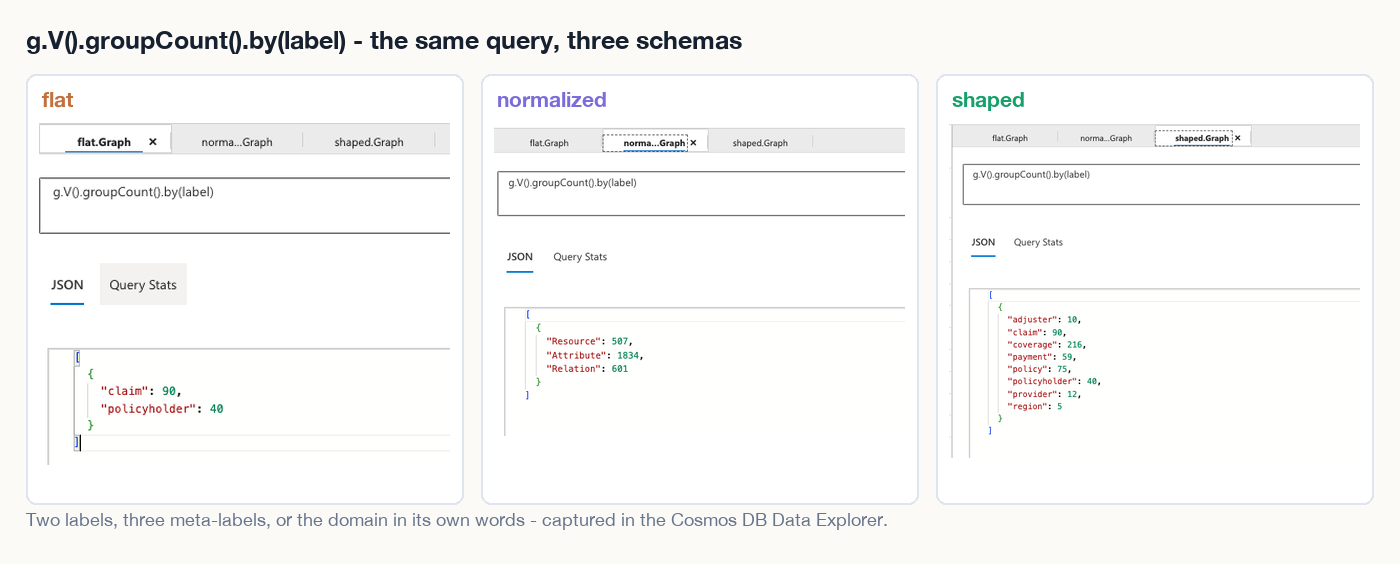
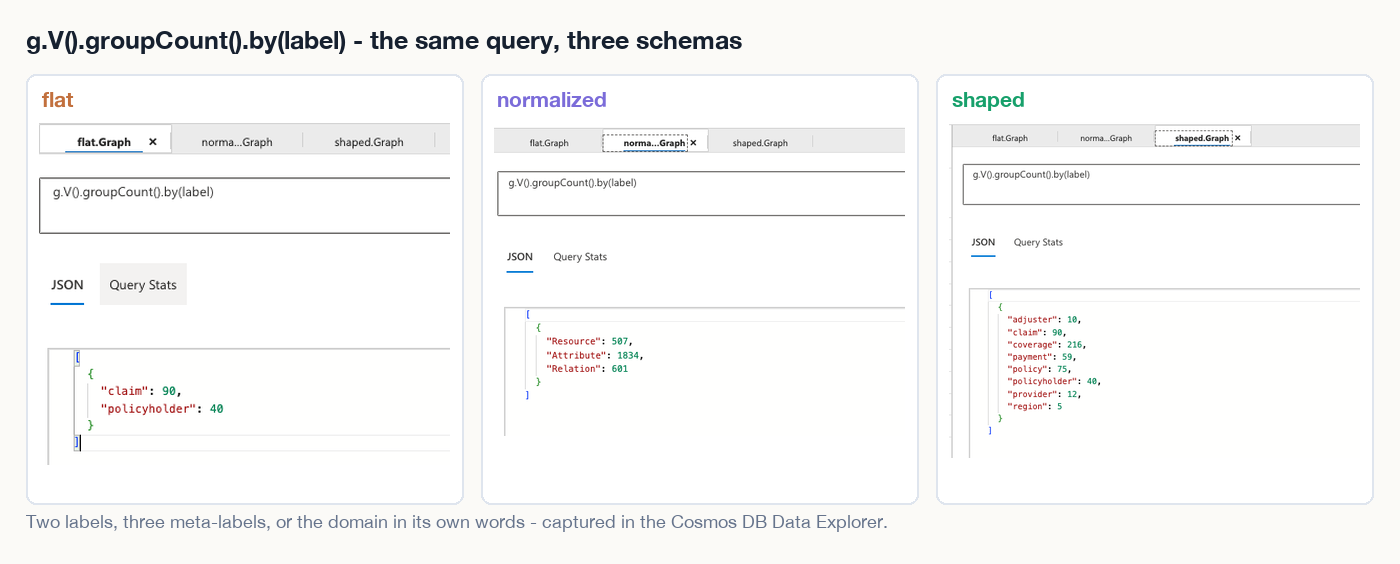
Add S2 neighbourhood and S3 deployment figures
Compose the remaining two portal figures from the raw captures:

- S2: claim C-31020 and its neighbours in each of the three graphs, with
  the Data Explorer properties panel alongside. Flat reaches one vertex,
  normalized eight, shaped three - each count matches the committed
  ontology files exactly.
- S3: the two Foundry model deployments, whose names and versions are the
  ones declared in code/infra.bicep.

The crops are derived from the captures rather than hardcoded: the portal
draws its pane boundaries as full-height rules, so the composer finds them
and cuts there. That also keeps the query bar and the query-history
dropdown out of the S2 rows without knowing where either one sits.

Notes are now wrapped against the measured font width instead of assumed
to fit on one line.

Changed region(s): [[0.0307, 0.9043, 0.645, 0.9344]]

diff --git a/figures/compose_screenshots.py b/figures/compose_screenshots.py
@@ -10,6 +10,7 @@ Output: figures/upload/screenshot-*.png
 
 from pathlib import Path
 
+import numpy as np
 from PIL import Image, ImageDraw, ImageFont
 
 HERE = Path(__file__).resolve().parent
@@ -27,6 +28,26 @@ def font(size, bold=False):
         except OSError:
             continue
     return ImageFont.load_default(size)
+
+
+def wrap(note, width, size=18):
+    """Break a note into lines that fit `width`, measured in the real font."""
+    if not note:
+        return []
+    f, lines, line = font(size), [], ""
+    for word in note.split():
+        trial = f"{line} {word}".strip()
+        if f.getlength(trial) <= width or not line:
+            line = trial
+        else:
+            lines.append(line)
+            line = word
+    return lines + [line]
+
+
+def draw_note(d, lines, x, y, size=18):
+    for i, line in enumerate(lines):
+        d.text((x, y + i * (size + 8)), line, font=font(size), fill=DIM)
 
 
 def load(name):
@@ -59,9 +80,11 @@ def stacked(files, title, note, out_name, slot_h=190,
         print(f"skipped {out_name}: missing {', '.join(missing)}")
         return
     pad, gap, head = 26, 18, 74
+    lines = wrap(note, W - 2 * pad)
+    note_h = 26 * len(lines) + 8 if lines else 0
     if side_by_side:
         col = (W - 2 * pad - 2 * gap) // 3
-        h = head + slot_h + pad + (34 if note else 0)
+        h = head + slot_h + pad + note_h
         img = Image.new("RGB", (W, h), BG)
         d = ImageDraw.Draw(img)
         d.text((pad, 24), title, font=font(25, True), fill=INK)
@@ -73,7 +96,7 @@ def stacked(files, title, note, out_name, slot_h=190,
             img.paste(art, (x + (col - art.width) // 2, head + 48))
         y = head + slot_h
     else:
-        h = head + len(ims) * (slot_h + gap) - gap + pad + (34 if note else 0)
+        h = head + len(ims) * (slot_h + gap) - gap + pad + note_h
         img = Image.new("RGB", (W, h), BG)
         d = ImageDraw.Draw(img)
         d.text((pad, 24), title, font=font(25, True), fill=INK)
@@ -84,55 +107,164 @@ def stacked(files, title, note, out_name, slot_h=190,
             art = scaled(im, W - 2 * pad - 190, slot_h - 24)
             img.paste(art, (pad + 176, y + (slot_h - art.height) // 2))
             y += slot_h + gap
-    if note:
-        d.text((pad, y + 4), note, font=font(18), fill=DIM)
+    draw_note(d, lines, pad, y + 6)
     OUT.mkdir(exist_ok=True)
     img.save(OUT / out_name)
     print(f"{out_name}: {W}x{h}")
 
 
-def sidebyside(files, title, note, out_name, slot_h=430):
-    """Three captures across, each labelled - used for S2."""
+def rules(gray):
+    """x of the Data Explorer's vertical pane dividers, found not assumed.
+
+    The portal draws each pane boundary as a full-height 1px rule, so a
+    column that is dark down the whole of a mid-height band is a divider.
+    Reading them off the capture means the crop survives a different window
+    width or a collapsed tree - no pixel offsets are baked in here.
+    """
+    h = gray.shape[0]
+    band = gray[h // 2 - 120:h // 2 + 120]
+    dark = (band < 240).sum(axis=0)
+    xs, out = np.where(dark > band.shape[0] * 0.8)[0], []
+    for x in xs:
+        if not out or x - out[-1] > 4:
+            out.append(int(x))
+    return out
+
+
+def results_band(gray, x):
+    """(top, bottom) of the results area, from the pane divider at column x.
+
+    A divider is drawn only where the results area is, so the longest
+    unbroken dark run down that column is exactly the pane's vertical
+    extent. That keeps the query bar, the tab strip and the query-history
+    dropdown out of the crop without knowing where any of them sit.
+    """
+    dark = gray[:, x] < 240
+    best, run, start = (0, 0), 0, 0
+    for i, on in enumerate(dark):
+        if on:
+            start = i if run == 0 else start
+            run += 1
+            best = (start, run) if run > best[1] else best
+        else:
+            run = 0
+    return best[0], best[0] + best[1]
+
+
+def ink_rows(gray, x0, x1, top, bot, pad=12, floor=2):
+    """The rows inside top:bot that carry ink, across columns x0:x1.
+
+    `floor` is how many dark pixels make a row count as inked. Raise it
+    above the number of vertical borders crossing the region, or an empty
+    table below the last row reads as content and survives the crop.
+    """
+    rows = np.where((gray[top:bot, x0:x1] < 242).sum(axis=1) > floor)[0]
+    if not len(rows):
+        return top, bot
+    return max(top + int(rows[0]) - pad, 0), min(top + int(rows[-1]) + pad,
+                                                 bot)
+
+
+def panes(files, title, note, out_name, captions):
+    """One row per schema: the graph pane beside its properties panel.
+
+    Used for S2. Each capture is cut at its own detected dividers, so the
+    drawing pane and the panel keep a constant width across the three rows
+    and therefore a constant scale - the rows are comparable by eye, which
+    is the entire point of the figure. Only the vertical extent varies, and
+    it varies because the schemas genuinely differ in size.
+    """
     ims = {k: load(v) for k, v in files.items()}
     missing = [v for k, v in files.items() if ims[k] is None]
     if missing:
         print(f"skipped {out_name}: missing {', '.join(missing)}")
         return
-    pad, gap, head = 26, 18, 74
-    col = (W - 2 * pad - 2 * gap) // 3
-    h = head + slot_h + pad + (34 if note else 0)
+
+    rows = {}
+    for name, im in ims.items():
+        gray = np.asarray(im.convert("L"), dtype=int)
+        graph_x0, panel_x0 = rules(gray)[-2:]
+        band = results_band(gray, graph_x0)
+        # one y-range for both panes, so they keep the alignment they had
+        top, bot = ink_rows(gray, graph_x0, im.width, *band)
+        rows[name] = (im.crop((graph_x0, top, panel_x0, bot)),
+                      im.crop((panel_x0, top, im.width, bot)))
+
+    src_w = max(g.width + p.width for g, p in rows.values())
+    pad, gap, head, hdr = 26, 20, 74, 52
+    lines = wrap(note, W - 2 * pad)
+    note_h = 26 * len(lines) if lines else 0
+    art_w = W - 2 * pad - 24
+    scale = art_w / src_w
+
+    heights = {}
+    for name, (g, p) in rows.items():
+        heights[name] = int(max(g.height, p.height) * scale)
+    stack = sum(hdr + heights[n] + 20 for n in rows) + gap * (len(rows) - 1)
+    note_y = head + stack + 16
+    h = note_y + note_h + pad
+
     img = Image.new("RGB", (W, h), BG)
     d = ImageDraw.Draw(img)
     d.text((pad, 24), title, font=font(25, True), fill=INK)
-    for i, (name, im) in enumerate(ims.items()):
-        x = pad + i * (col + gap)
-        box = [x, head, x + col, head + slot_h]
-        frame(d, box, name, ACCENT[name])
-        art = scaled(im, col - 24, slot_h - 58)
-        img.paste(art, (x + (col - art.width) // 2, head + 46))
-    if note:
-        d.text((pad, head + slot_h + 10), note, font=font(18), fill=DIM)
+
+    y = head
+    for name, (g, p) in rows.items():
+        box_h = hdr + heights[name] + 20
+        d.rounded_rectangle([pad, y, W - pad, y + box_h], radius=10,
+                            fill=PANEL, outline=RULE, width=2)
+        d.text((pad + 16, y + 13), name, font=font(20, True),
+               fill=ACCENT[name])
+        d.text((pad + 130, y + 15), captions[name], font=font(16), fill=DIM)
+        x = pad + 12
+        for part in (g, p):
+            art = part.resize((max(int(part.width * scale), 1),
+                               max(int(part.height * scale), 1)),
+                              Image.LANCZOS)
+            img.paste(art, (x, y + hdr))
+            x += art.width
+        y += box_h + gap
+
+    draw_note(d, lines, pad, note_y)
     OUT.mkdir(exist_ok=True)
     img.save(OUT / out_name)
     print(f"{out_name}: {W}x{h}")
 
 
-def single(file, title, note, out_name):
+def single(file, title, note, out_name, trim=False):
     im = load(file)
     if im is None:
         print(f"skipped {out_name}: missing {file}")
         return
+    if trim:
+        # Drop the dead space under the last table row. The navigation rail
+        # stays: it shows the reader where in the portal this page lives.
+        # The floor clears the table container's own vertical borders, which
+        # otherwise make every empty row below the data look inked.
+        gray = np.asarray(im.convert("L"), dtype=int)
+        rail = rules(gray)[0]
+        # Measure the last inked row in the content pane only - the rail's
+        # own menu runs the full height and would defeat the trim. The floor
+        # clears the table container's two vertical borders.
+        _, bot = ink_rows(gray, rail + 24, im.width, 0, im.height, pad=18,
+                          floor=10)
+        # Then slide down to the next gap in the rail, so the cut falls
+        # between two menu entries instead of through one.
+        while bot < im.height and (gray[bot, :rail] < 242).sum() > 2:
+            bot += 1
+        im = im.crop((0, 0, im.width, min(bot + 6, im.height)))
     pad, head = 26, 74
+    lines = wrap(note, W - 2 * pad)
+    note_h = 26 * len(lines) + 8 if lines else 0
     art = scaled(im, W - 2 * pad - 24, 520)
-    h = head + art.height + 34 + pad + (34 if note else 0)
+    h = head + art.height + 34 + pad + note_h
     img = Image.new("RGB", (W, h), BG)
     d = ImageDraw.Draw(img)
     d.text((pad, 24), title, font=font(25, True), fill=INK)
     box = [pad, head, W - pad, head + art.height + 24]
     d.rounded_rectangle(box, radius=10, fill=PANEL, outline=RULE, width=2)
     img.paste(art, ((W - art.width) // 2, head + 12))
-    if note:
-        d.text((pad, box[3] + 12), note, font=font(18), fill=DIM)
+    draw_note(d, lines, pad, box[3] + 12)
     OUT.mkdir(exist_ok=True)
     img.save(OUT / out_name)
     print(f"{out_name}: {W}x{h}")
@@ -146,14 +278,21 @@ if __name__ == "__main__":
             "Two labels, three meta-labels, or the domain in its own words - "
             "captured in the Cosmos DB Data Explorer.",
             "screenshot-s1-vocabularies.png", slot_h=430, side_by_side=True)
-    sidebyside({"flat": "s2-flat.png", "normalized": "s2-normalized.png",
-                "shaped": "s2-shaped.png"},
-               "Claim C-31020 and its neighbours, as each schema stores it",
-               "The same fact at three different distances, drawn by the "
-               "Data Explorer's graph view.",
-               "screenshot-s2-neighbourhoods.png")
+    panes({"flat": "s2-flat.png", "normalized": "s2-normalized.png",
+           "shaped": "s2-shaped.png"},
+          "Claim C-31020 and its neighbours, as each schema stores it",
+          "Same claim, same database, three distances. Read the flat "
+          "properties panel: the adjuster and the policy are in there as "
+          "text, which is why the agent cannot walk to them.",
+          "screenshot-s2-neighbourhoods.png",
+          {"flat": "g.V().has('number', 'C-31020')   ->   1 neighbour, on "
+                   "one nameless related edge",
+           "normalized": "g.V().has('value', 'C-31020').in('has')   ->   8 "
+                         "neighbours: 6 attributes, 2 relations",
+           "shaped": "g.V().has('number', 'C-31020')   ->   3 neighbours, on "
+                     "named edges: filed_against, assessed_by, held_by"})
     single("s3-deployments.png",
            "The whole compute footprint: two model deployments",
            "One Microsoft Foundry resource, one small model and one large, "
-           "both Global Standard.",
-           "screenshot-s3-deployments.png")
+           "both Global Standard, both declared in code/infra.bicep.",
+           "screenshot-s3-deployments.png", trim=True)
